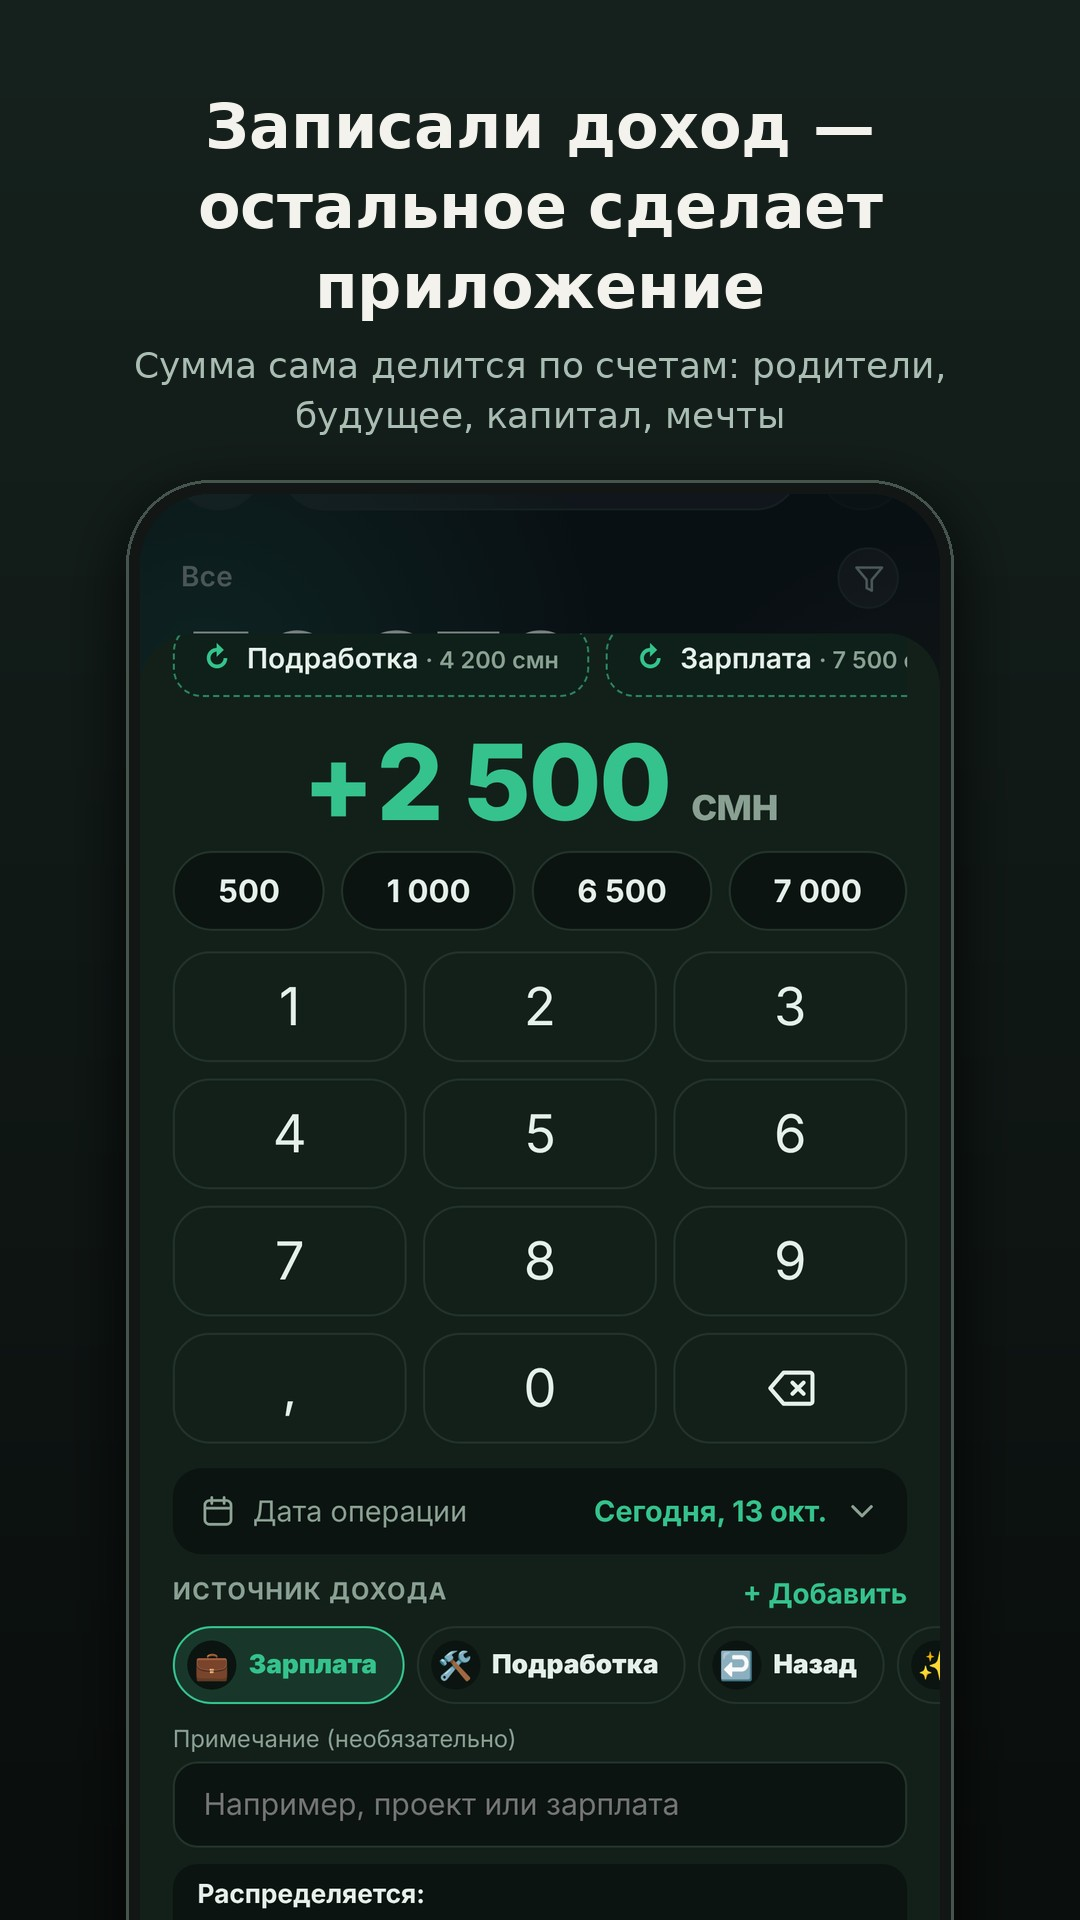
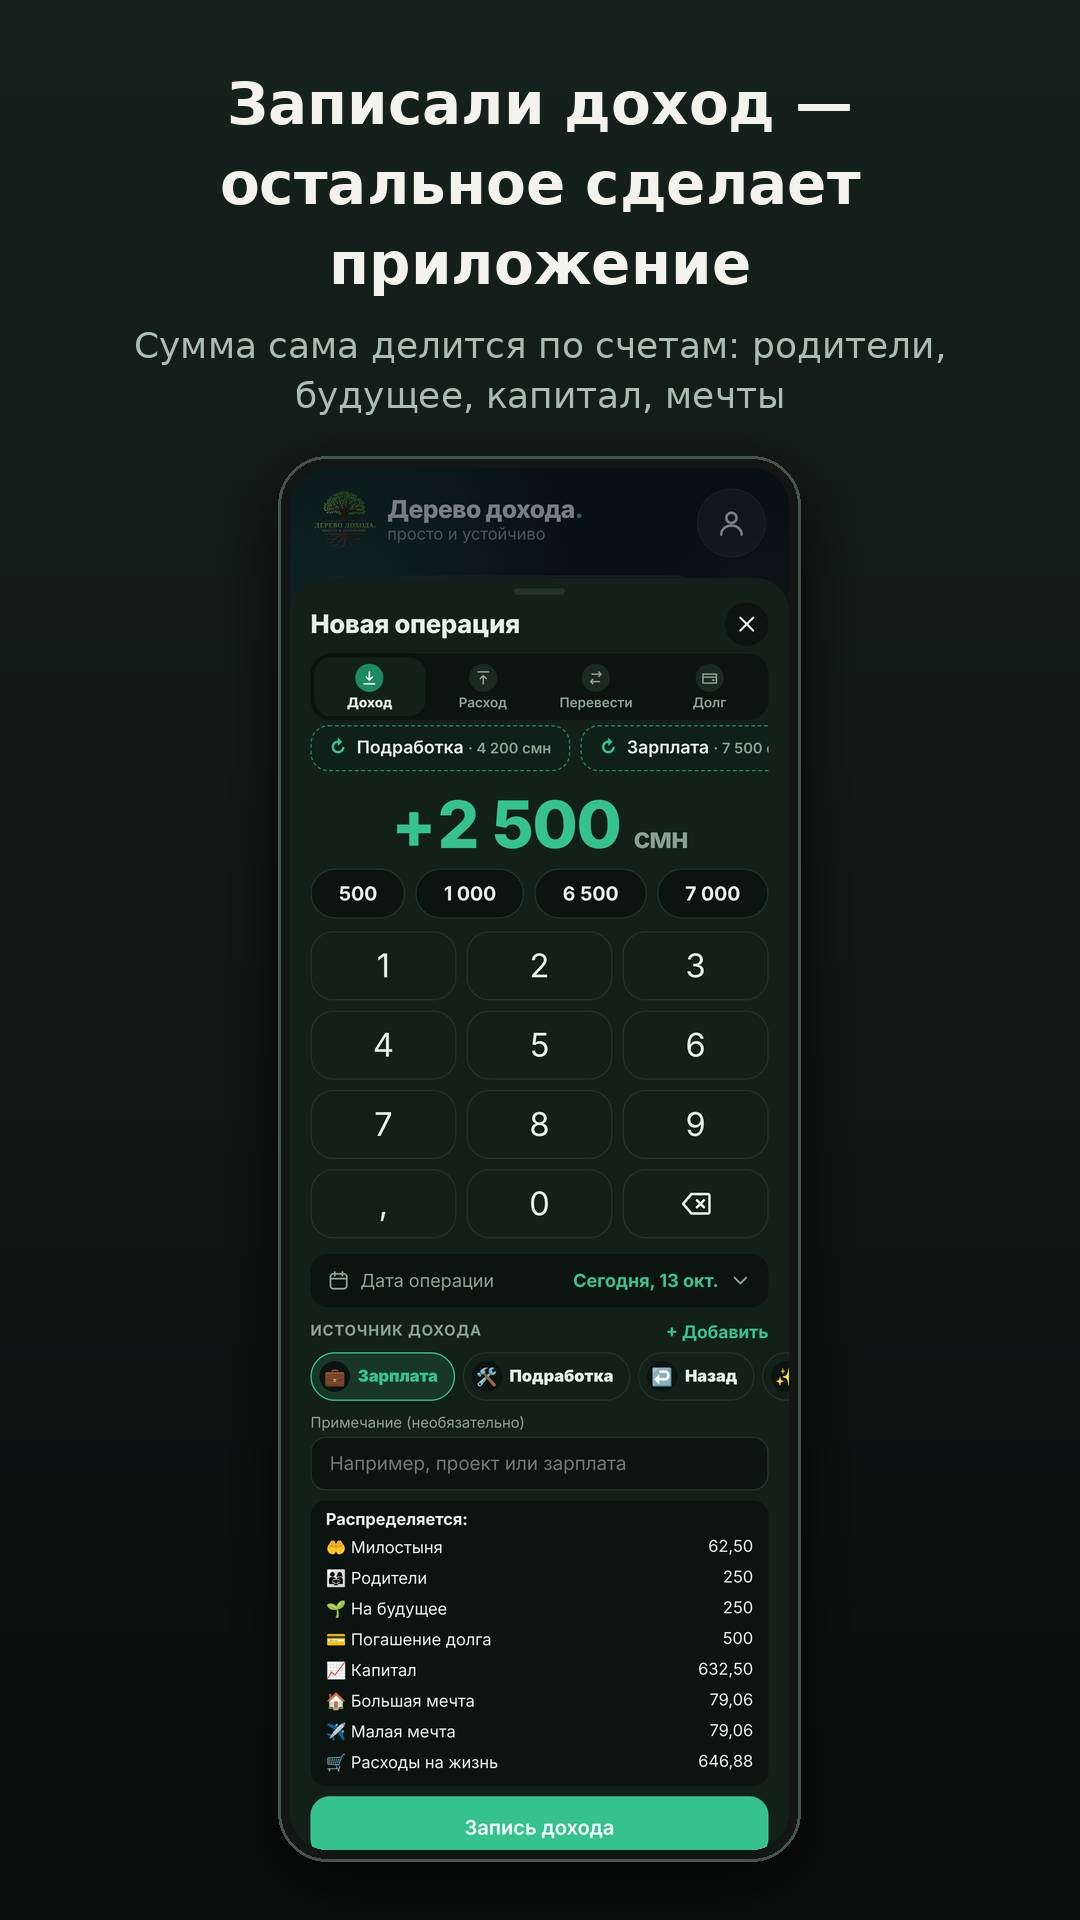
Mini App preview screenshots: show full screens (no cropping), separate images per screen
Claude-Session: https://claude.ai/code/session_01KRPxsRuHtmndxxojAN5Jh2

diff --git a/posts/img/miniapp-preview/captions.md b/posts/img/miniapp-preview/captions.md
@@ -1,6 +1,6 @@
 # Скриншоты для предпросмотра Mini App
 
-Формат 1080×1920 (9:16). Два набора: `screens-light/` (светлая тема) и `screens-dark/` (тёмная тема). Подписи уже нанесены на изображения. На скриншотах демо-данные.
+Формат 1080×1920 (9:16). Экран приложения виден целиком, без обрезки. Два набора: `screens-light/` (светлая тема) и `screens-dark/` (тёмная тема). Подписи уже нанесены на изображения. На скриншотах демо-данные.
 
 | № | Файл | Заголовок | Подпись |
 |---|------|-----------|---------|
